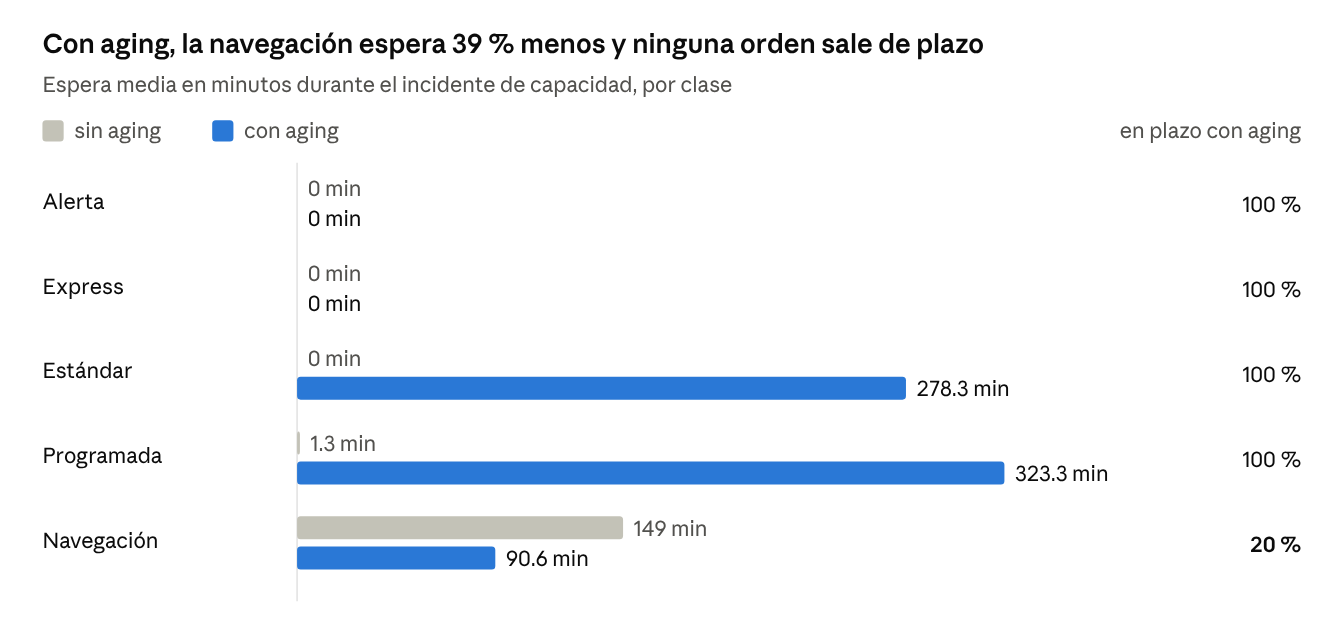
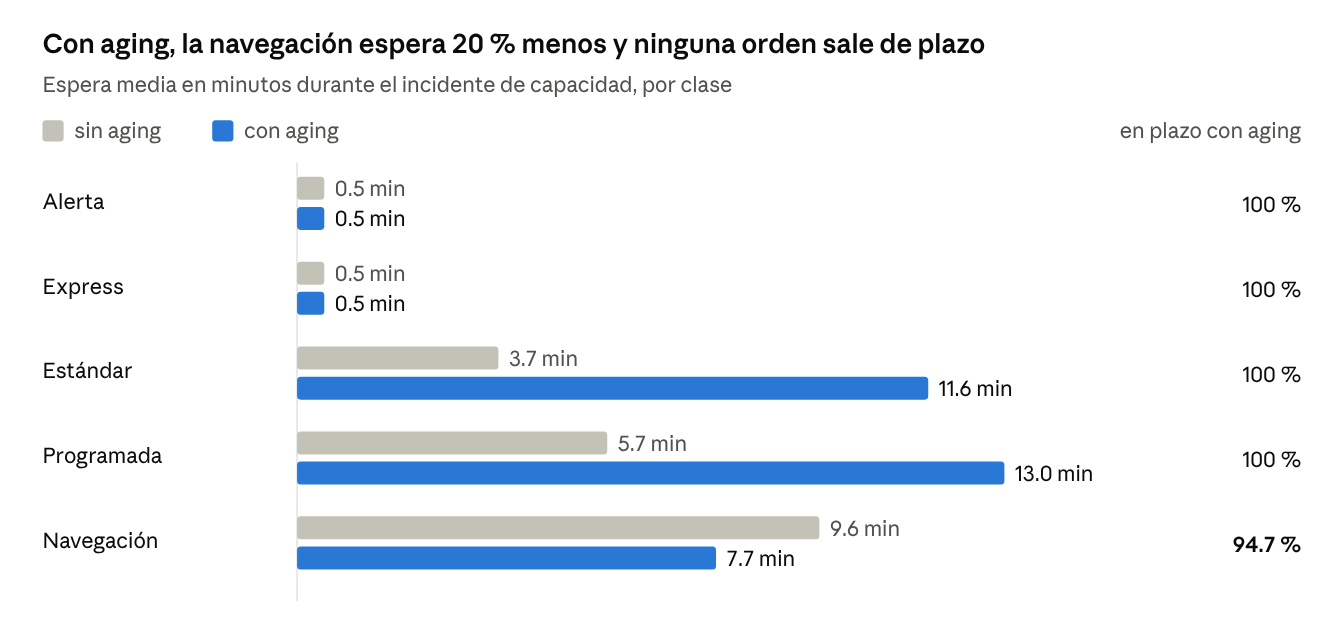
ACTUALIZACION DEL INFORME DE LAS ETAPAS 0, 1 Y 2 A OFFICE_PRODUCTS
- se modifico docs/informe_etapas_0_1_2.md
- se reemplazo la imagen docs/img/informe_arquitectura.png
- se reemplazo la imagen docs/img/informe_espera_aging.png
- se reemplazo la imagen docs/img/informe_stream_vs_lista.png

diff --git a/docs/informe_etapas_0_1_2.md b/docs/informe_etapas_0_1_2.md
@@ -2,62 +2,60 @@
 
 Proyecto EDA 2026-2 · Grupo 1 · Escenario B (comercio electrónico)
 
-18 de octubre de 2026
+19 de octubre de 2026
 
 ## Resumen
 
-Las etapas 0, 1 y 2 convierten un stream crudo de eventos de comercio electrónico en una secuencia limpia y priorizada. Sobre 20 000 reseñas reales de Amazon Reviews 2023 se generaron 134 277 registros, de los que salieron 127 170 eventos limpios en orden de atención.
+Las etapas 0, 1 y 2 convierten un stream crudo de eventos de comercio electrónico en una secuencia limpia y priorizada. En modo desarrollo, 50 000 reseñas reales de la categoría `Office_Products` de Amazon Reviews 2023 generaron 363 511 registros, de los que salieron 343 887 eventos limpios en orden de atención.
 
 | Etapa | Función | Estructura propia | Complejidad | Resultado principal |
 | --- | --- | --- | --- | --- |
 | 0. Ingesta y buffer | Recibir el stream y entregarlo en micro-lotes | Cola FIFO circular de capacidad fija | O(1) por operación | Pendiente log-log de 0.97 y 8 bytes por elemento; ningún evento perdido con backpressure |
-| 1. Preprocesamiento | Validar, normalizar, deduplicar y ordenar | Merge sort y búsqueda binaria | O(b log b) por lote, O(log w) por búsqueda | 1 291 de 1 291 rechazos y 5 816 duplicados detectados; inversiones temporales del 38 % al 0.21 % |
-| 2. Cola con prioridades | Atender primero lo urgente | Min-heap binario con aging | O(log n) por operación, heapify O(n) | Alertas y órdenes express sin espera durante un incidente; espera media de la navegación un 39 % menor con aging |
+| 1. Preprocesamiento | Validar, normalizar, deduplicar y ordenar | Merge sort y búsqueda binaria | O(b log b) por lote, O(log w) por búsqueda | 3 433 de 3 433 rechazos esperados; desorden del 4.68 % al 0.26 %, sin desorden dentro de los lotes |
+| 2. Cola con prioridades | Atender primero lo urgente | Min-heap binario con aging | O(log n) por operación, heapify O(n) | Alertas y compras express dentro de plazo durante un incidente; espera media de la navegación un 20 % menor con aging |
 
-Todas las estructuras evaluadas se implementaron a mano y se compararon con alternativas de la biblioteca estándar en tamaños de 1K a 10M, con semilla 42.
+Todas las estructuras evaluadas se implementaron a mano y se compararon con alternativas de la biblioteca estándar en tamaños de 1K a 10M, con semilla 42. Las etapas 0 y 1 usan 9.4 MB de memoria pico en modo desarrollo, sin contar el catálogo de productos.
 
 ## Contexto y datos
 
-El escenario B pide un stream de búsquedas, vistas, carritos, compras, devoluciones, reseñas y alertas de pago. Ningún dataset público trae ese stream completo, así que se usó Amazon Reviews 2023 (McAuley-Lab, Hugging Face) como base real y se generó sintéticamente el componente de stream, como recomienda el enunciado.
+El escenario B pide un stream de búsquedas, vistas, carritos, compras, devoluciones, reseñas y alertas de pago. Ningún dataset público trae ese stream completo, así que se usó Amazon Reviews 2023 (McAuley-Lab) como base real y se generó sintéticamente el componente de stream, como recomienda el enunciado.
 
 ### Dataset
 
-Para el desarrollo se usó la categoría `All_Beauty`, con 701 528 reseñas (311.5 MB) y 112 590 productos (203.1 MB). La categoría `Video_Games` queda reservada para el experimento final. Los archivos JSONL se descargan con `hf_hub_download`, porque `datasets` 5.x ya no admite el script de carga del repositorio, y se leen línea por línea con un generador de Python.
+Se usa la categoría `Office_Products`. El notebook `00-download-data.ipynb` descarga las reseñas y los metadatos, asigna el tipo de cada columna y ordena las 12 845 712 reseñas por `timestamp` con ordenamiento externo. El resultado son dos archivos Parquet, uno de reseñas (unos 1.5 GB) y otro de 710 503 productos (unos 505 MB).
 
-La lectura como stream es una decisión medida. Se comparó un generador de Python con una lista en memoria al recorrer de 1K a 200K reseñas.
+Las reseñas se leen con `ParquetFile.iter_batches`, en bloques de 10 000 filas y solo con las columnas necesarias, y un generador de Python las entrega una a la vez. El experimento usa una **ventana reciente**, formada por las últimas 2 500 000 reseñas del archivo. Son un bloque continuo de las reseñas más recientes, así que conservan el orden temporal real. Con los metadatos del Parquet se calcula en qué grupo de filas empieza la ventana, y los grupos anteriores no se leen. El modo desarrollo usa las primeras 50 000 reseñas de esa ventana, que caen en un solo grupo de los 65 del archivo.
+
+La lectura como stream es una decisión medida. Se comparó el generador con una lista en memoria al recorrer de 1K a 200K reseñas.
 
 ![Memoria pico y tiempo hasta el primer registro, generador frente a lista](img/informe_stream_vs_lista.png)
 
-*Fuente: `notebooks/etapa0_ingesta_buffer.ipynb`, 1K a 200K reseñas de `All_Beauty`, promedio de 5 repeticiones en los tiempos.*
+*Fuente: `notebooks/etapa0_ingesta_buffer.ipynb`, 1K a 200K reseñas de `Office_Products`, promedio de 5 repeticiones en los tiempos.*
 
-| Medida con 200K reseñas | Lista | Generador |
-| --- | --- | --- |
-| Memoria pico | 70.5 MB | 0.08 MB |
-| Tiempo hasta el primer registro | 912 ms | 0.15 ms |
-| Tiempo total de recorrido | 0.92 s | 0.90 s |
+- **Memoria.** Con la lista, la memoria pico crece en proporción a n, unos 395 bytes por reseña, es decir, O(n). Con el generador se mantiene en 4.3 MB, el tamaño de un bloque, es decir, O(1). Con 200K reseñas la lista usa unas 18 veces más memoria, y la diferencia crece con n.
+- **Latencia.** La lista entrega el primer registro solo después de leer todas las reseñas, así que esa espera crece con n. El generador lo entrega tras leer el primer bloque, en unos 19 ms, sin importar el tamaño.
+- **Tiempo total.** Recorrer las 200K reseñas tomó 0.15 s con el generador y 0.16 s con la lista. El ahorro de memoria no tiene costo en velocidad.
 
-- **Memoria.** Con la lista la memoria crece en proporción a n, unos 350 bytes por reseña, es decir, O(n). Con el generador se mantiene cerca de 0.07 MB en todos los tamaños, es decir, O(1). Con 200K reseñas la lista usa unas 890 veces más memoria.
-- **Latencia.** La lista entrega el primer registro solo después de leer todo el archivo, y esa espera crece de 6 ms a 912 ms. El generador lo entrega en unos 0.15 ms sin importar el tamaño. En un stream que no termina, la lista nunca entregaría el primer registro.
-- **Tiempo total.** Las dos formas tardan lo mismo en recorrer todas las reseñas, porque hacen el mismo trabajo de lectura y conversión de JSON. El ahorro de memoria no tiene costo en velocidad.
+El análisis de los datos encontró tres características que condicionan el diseño.
 
-El análisis del dataset encontró tres problemas que condicionan el diseño.
-
-- El precio falta en el 84.3 % de los productos.
-- Las reseñas no están ordenadas por tiempo. En una muestra de 20 000, el timestamp retrocede en el 60 % de los pares consecutivos y las fechas van de 2002 a 2023.
+- El precio viene como texto mezclado. Es nulo en el 59.7 % de los productos, 3 784 productos tienen un guion (`"—"`) y 606 un texto como `"from 14.99"`.
+- Las reseñas vienen ordenadas por tiempo, así que cada recorrido de compra se puede anclar al timestamp real de su reseña.
 - `bought_together` casi siempre es nulo, por lo que el grafo de co-compra necesita órdenes simuladas.
 
 ### Generador sintético
 
-Cada reseña real se convierte en un recorrido de compra `search → view → cart → purchase → review → return`. Del dataset se conservan el usuario, el producto, la calificación y si la compra fue verificada. El precio, la categoría y el texto de búsqueda se toman del catálogo, con un precio sintético estable cuando falta.
+Cada reseña real se convierte en un recorrido de compra `search → view → cart → purchase → review → return`. Del dataset se conservan el usuario, el producto, la calificación, el timestamp y si la compra fue verificada. El precio crudo, la categoría y el texto de búsqueda se toman del catálogo. El precio pasa sin limpiar a la etapa 1 y solo se reemplaza por uno sintético cuando es nulo.
 
-Como las reseñas no tienen orden temporal, el generador usa un reloj de reproducción. Cada reseña recibe una hora sintética creciente, con intervalos exponenciales de 2 s en promedio, y su recorrido ocurre en los 30 minutos anteriores. Cada evento llega con un retraso de red simulado, y el generador lo entrega en orden de llegada.
+El recorrido ocurre en los 30 minutos previos al timestamp real de la reseña. El generador entrega los eventos en orden de llegada con **desorden controlado**. Un evento normal llega en su propio `ts`, y el 5 % llega con un retraso aleatorio de hasta 120 s, reproducible con la semilla. Sin eventos tardíos, el stream sale ordenado por tiempo. En modo desarrollo llegó tarde el 5.05 % de los eventos.
+
+El retraso máximo de 120 s es menor que la duración de un lote en tiempo del stream (mediana de 1 237 s y mínimo de 473 s) y que la ventana de deduplicación de la etapa 1 (600 s). Así, un evento tardío cae como mucho en el lote siguiente y su reenvío todavía se detecta.
 
 | Ruido inyectado | Probabilidad | Etapa que lo trata |
 | --- | --- | --- |
 | Duplicado exacto | 3 % por evento | 1 |
 | Duplicado casi exacto (otro `event_id`, `ts` ±0.4 s, formato distinto) | 1.5 % por evento | 1 |
 | Registro malformado (seis tipos de error) | 1 % por evento | 1 |
-| Llegada tardía de 30 s a 5 min | 5 % por evento | 1 |
+| Llegada tardía de hasta 120 s | 5 % por evento | 1 |
 | Ráfaga de fraude con cuenta, tarjeta y dispositivo señalados | 0.2 % por reseña | 2 y 6 |
 | Alerta de pago | 30 % de las compras fraudulentas, 0.3 % de las legítimas | 2 y 6 |
 
@@ -67,7 +65,7 @@ El 25 % de las órdenes incluye de 1 a 3 productos adicionales del mismo grupo s
 
 ![Arquitectura de las etapas 0 a 2 y flujo de datos](img/informe_arquitectura.png)
 
-Cada etapa entrega su salida a la siguiente a través de archivos en `data/interim/`. La etapa 0 también exporta las listas de cuentas, tarjetas y dispositivos señalados para el Bloom Filter de la etapa 6.
+Cada etapa entrega su salida a la siguiente a través de archivos en `data/interim/<CATEGORIA>/`. La categoría, las rutas y los parámetros del experimento están en un solo lugar, `src/config.py`. La etapa 0 también exporta las listas de cuentas, tarjetas y dispositivos señalados para el Bloom Filter de la etapa 6.
 
 ## Etapa 0. Ingesta y buffer
 
@@ -83,7 +81,7 @@ La etapa 0 recibe el stream en un buffer FIFO de capacidad fija y lo entrega a l
 
 ### Resultados
 
-Con 10 000 reseñas (64 105 eventos) y capacidad de 2 000, un consumidor lento de 40 ms por lote bloqueó al productor 125 veces, durante 4.34 s en total. Los dos escenarios, rápido y lento, entregaron exactamente los mismos 64 105 eventos. Con un productor de poco tráfico, los lotes se cerraron por tiempo y ningún evento esperó más de 52 ms.
+Con 10 000 reseñas (71 836 eventos) y capacidad de 2 000, un consumidor lento de 40 ms por lote bloqueó al productor 139 veces, durante 4.65 s en total. Los dos escenarios, rápido y lento, entregaron exactamente los mismos 71 836 eventos. Con un productor de poco tráfico, los lotes se cerraron por tiempo y ningún evento esperó más de 52 ms.
 
 | Estructura | Pendiente log-log | Tiempo por operación a 1M | Memoria por elemento |
 | --- | --- | --- | --- |
@@ -100,7 +98,7 @@ La etapa 1 convierte cada micro-lote de registros crudos en eventos que cumplen 
 
 ### Diseño
 
-1. **Validar y normalizar** en un solo recorrido. Cada campo tiene una regla, y los registros inválidos pasan a una `ColaEnlazada` de rechazados con su motivo. Se convierte `ts` de milisegundos a segundos, el precio de texto (`$19.99`, `19,99`) a número, la categoría a forma canónica (`all_beauty`) y la búsqueda a minúsculas.
+1. **Validar y normalizar** en un solo recorrido. Cada campo tiene una regla, y los registros inválidos pasan a una `ColaEnlazada` de rechazados con su motivo. Se convierte `ts` de milisegundos a segundos, la categoría a forma canónica (`office_products`) y la búsqueda a minúsculas. El precio llega como texto crudo del catálogo y se toma su primer número: `$19.99`, `19,99`, `1,299.00` y `from $12.50` se convierten a número, y `—` queda sin precio. Una coma seguida de dos dígitos al final es decimal; cualquier otra coma separa miles. Una compra sin precio o con precio de 0 o menos se rechaza como `precio_invalido`.
 2. **Ordenar el lote por `(clave, ts)`** con merge sort propio y recorrerlo una vez. La clave es `(event_type, user_id, parent_asin, order_id, query)` y no incluye `event_id`. Dos eventos son duplicados si comparten clave y sus `ts` difieren 1 s o menos. Tras ordenar, los duplicados quedan juntos, así que el costo es O(b log b) en lugar de O(b²).
 3. **Buscar duplicados de lotes anteriores** en una ventana, que es un arreglo ordenado con las claves de los últimos 600 s. La búsqueda binaria propia cuesta O(log w) por evento, y la ventana se actualiza una vez por lote con una mezcla lineal, en O(w + b).
 4. **Reordenar el lote por `ts`** con merge sort, que es estable y conserva el orden de los eventos con el mismo `ts`.
@@ -109,13 +107,26 @@ Merge sort se eligió porque garantiza O(n log n) también en el peor caso y es 
 
 ### Verificación contra lo inyectado
 
-| Concepto | Inyectado en la etapa 0 | Detectado en la etapa 1 |
-| --- | --- | --- |
-| Registros rechazados | 1 291 | 1 291 |
-| Duplicados exactos | 3 824 | 3 818 |
-| Duplicados casi exactos | 1 907 | 1 998 |
+Con 50 000 reseñas (363 511 registros), la etapa 1 se comparó con los conteos del generador. La columna Esperado ajusta lo inyectado por los casos que la etapa debe tratar de otra forma.
 
-Los rechazos coinciden por motivo. Los 85 duplicados detectados de más son pares de eventos legítimos con la misma clave a menos de 1 s, el 0.07 % de los eventos. De ellos, 76 son vistas repetidas del mismo producto, equivalentes a un doble clic, y 10 son reseñas reales de variantes del mismo `parent_asin`. Del total, 200 duplicados se detectaron entre lotes gracias a la ventana. Las inversiones de orden temporal bajaron del 38 % al 0.21 %; las que quedan son eventos que llegaron después de cerrarse su lote.
+| Concepto | Inyectado | Esperado | Detectado |
+| --- | --- | --- | --- |
+| Registros rechazados | 3 451 | 3 433 | 3 433 |
+| Duplicados exactos | 10 421 | 10 420 | 10 393 |
+| Duplicados casi exactos | 5 102 | 5 102 | 5 798 |
+
+Los rechazos coinciden por motivo. Lo esperado incluye 56 compras de productos con precio `—` o 0 en el catálogo, que se rechazan con razón, y descuenta las copias de registros que ya iban a ser rechazados. En los duplicados, el exceso neto de 669 coincide, salvo 6, con 675 pares legítimos con la misma clave a 1 s o menos, el 0.2 % de los eventos. De ellos, 460 son reseñas reales de variantes del mismo `parent_asin` con el mismo timestamp, y 215 son vistas repetidas, equivalentes a un doble clic. Los 27 exactos de menos son copias de un evento que ya había quedado unido a otro legítimo, y se cuentan como casi exactas. Del total, 70 duplicados se detectaron entre lotes gracias a la ventana, que llegó a 642 entradas.
+
+### Desorden temporal
+
+Un evento está fuera de orden si su `ts` es menor que el de uno entregado antes. Si ese evento es del mismo lote, el desorden es dentro del lote; si es de un lote anterior, es entre lotes.
+
+| Momento | Fuera de orden | Dentro del lote | Entre lotes |
+| --- | --- | --- | --- |
+| Al entrar a la etapa 1 | 4.68 % | 16 037 | 926 |
+| Al salir de la etapa 1 | 0.26 % | 0 | 878 |
+
+La etapa elimina todo el desorden dentro del lote. Queda el que viene de eventos tardíos que llegaron después de cerrarse su lote.
 
 ### Experimentos
 
@@ -128,7 +139,7 @@ Los rechazos coinciden por motivo. Los 85 duplicados detectados de más son pare
 | Deduplicación | `merge_sort` y recorrido (propio) | 1.09 | n log n |
 | Deduplicación | `set()` (C) | 1.09 | n |
 
-A 100K la búsqueda binaria resolvió cada consulta en 2.4 µs, frente a 1 880 µs de la lineal. `set()` deduplicó unas 17 veces más rápido que ordenar y recorrer, y usó 56 bytes por elemento frente a 81. En la etapa ese costo es pequeño porque cada lote tiene unos 500 eventos, y log₂ 500 ≈ 9. El paso más costoso medido fue validar y normalizar, seguido de la reconstrucción de la ventana, y no los ordenamientos.
+A 100K la búsqueda binaria resolvió cada consulta en 2.4 µs, frente a 1 880 µs de la lineal. `set()` deduplicó unas 17 veces más rápido que ordenar y recorrer, y usó 56 bytes por elemento frente a 81. En la etapa ese costo es pequeño porque cada lote tiene unos 500 eventos, y log₂ 500 ≈ 9. Por lote, validar y normalizar tomó 2.4 ms, ordenar y deduplicar 1.4 ms, la ventana 1.1 ms y reordenar 0.8 ms; los 728 lotes se procesaron en 4.2 s.
 
 ## Etapa 2. Cola con prioridades
 
@@ -144,23 +155,29 @@ La etapa 2 decide en qué orden se atienden los eventos limpios cuando la capaci
 | 4 | Compra programada | 72 h |
 | 5 | Búsqueda, vista, carrito y reseña | 30 min |
 
-La clave del heap es `(clase, deadline, seq)`, donde el deadline es el `ts` del evento más el plazo de su clase y `seq` es el orden de inserción. Dentro de una clase sale primero el que vence antes, y en un empate total sale el que entró antes, así que la cola es estable. La navegación es el 80.4 % de la carga y las clases 1 a 4 suman unos 95 eventos por lote.
+La clave del heap es `(clase, deadline, seq)`, donde el deadline es el `ts` del evento más el plazo de su clase y `seq` es el orden de inserción. Dentro de una clase sale primero el que vence antes, y en un empate total sale el que entró antes, así que la cola es estable. La navegación es el 78 % de la carga, y las clases 1 a 4 suman unos 4 eventos por minuto en promedio.
 
 ### Aging
 
-El aging sube una clase a cada evento por cada 15 minutos de espera, sin pasar de la clase 3. Las claves de un heap no se pueden cambiar en su lugar, así que cada 5 lotes se recalcula la clase efectiva de todas las entradas y se reconstruye el heap con `heapify`, en O(n). Ese costo, repartido entre 5 lotes, es menor que el de insertar y extraer cada lote.
+El aging sube una clase a cada evento por cada 15 minutos de espera, sin pasar de la clase 3. Las claves de un heap no se pueden cambiar en su lugar, así que cada 5 minutos se recalcula la clase efectiva de todas las entradas y se reconstruye el heap con `heapify`, en O(n). Ese costo, repartido entre 5 minutos de servicio, es menor que el de insertar y extraer los eventos de esos minutos.
 
 El límite en la clase 3 protege las clases con plazos cortos. Las clases 3 y 4 tienen 24 h y 72 h de plazo, y el aging solo usa esa holgura.
 
+### Simulación del servicio
+
+La simulación avanza un minuto del stream por ciclo. En cada minuto entran al heap los eventos de ese minuto, cada 5 minutos se aplica el aging y al final del minuto se extraen tantos eventos como permita la capacidad. Con los timestamps reales cada lote de 500 eventos cubre unos 25 minutos del stream, así que un ciclo por lote no puede medir el plazo de 5 minutos de las alertas. Con ciclos de 1 minuto la resolución es menor que todos los plazos.
+
+Llegan 18.4 eventos por minuto en promedio, con un máximo de 82. Con la capacidad normal de 91 eventos por minuto, un 10 % sobre ese máximo, todas las clases esperan un minuto o menos y se atienden al 100 % dentro de plazo.
+
 ### Incidente de capacidad
 
-Se simuló una caída de capacidad de 600 a 100 eventos por ciclo durante 100 ciclos, unas 4.5 horas del stream. Llegan unos 473 eventos por ciclo.
+Se simuló una caída de la capacidad a 5 eventos por minuto durante 4 horas, ubicada en las 4 horas con más llegadas del stream. En esas horas llegan 54 eventos por minuto, y 12.1 por minuto son de las clases 1 a 4, frente a 4.1 en promedio: la capacidad del incidente no alcanza ni para lo urgente.
 
 ![Espera media por clase durante el incidente, con y sin aging](img/informe_espera_aging.png)
 
-*Fuente: `notebooks/etapa2_cola_prioridades.ipynb`, incidente de 100 ciclos, 127 170 eventos.*
+*Fuente: `notebooks/etapa2_cola_prioridades.ipynb`, incidente de 4 h a 5 eventos por minuto, 363 511 registros de `Office_Products`.*
 
-Con aging, la espera media de la navegación baja un 39 % y su espera máxima de 241 a 195 min, sin que ninguna orden salga de plazo. Solo el 20 % de la navegación cumple su plazo con o sin aging, porque durante el incidente falta capacidad. Una política de orden decide quién espera, pero no reduce la espera total.
+Las alertas y las compras express se atienden en menos de 2 minutos con y sin aging, porque son pocas y la prioridad por clase las atiende primero. Con aging, la espera media de la navegación baja un 20 %, de 9.6 a 7.7 minutos, y su p95 de 50.8 a 32.5. El costo lo pagan las compras estándar y programadas, que siguen al 100 % dentro de plazo gracias a sus plazos de 24 h y 72 h. La navegación queda al 94.7 % dentro de plazo en los dos escenarios: el heap llega a unos 12 000 eventos y tarda unas 3.5 horas en vaciarse. Una política de orden decide quién espera, pero no reduce la espera total.
 
 ### Experimentos
 
@@ -176,54 +193,57 @@ A 100K la lista ordenada ya es 4 veces más lenta que `MinHeap`, y la diferencia
 
 ## Integración y verificación
 
-Las tres etapas están implementadas en notebooks reproducibles y en módulos de `src/` que producen exactamente los mismos resultados. Con 20 000 reseñas, ambos generan los mismos 134 277 registros en el mismo orden y las mismas métricas de la etapa 1.
+Las tres etapas están implementadas en módulos de `src/` y en notebooks reproducibles que importan esos módulos. La categoría, las rutas, la semilla y el tamaño del experimento se cambian en un solo lugar, `src/config.py`.
 
 | Artefacto | Contenido |
 | --- | --- |
-| `notebooks/etapa0_ingesta_buffer.ipynb` | Generador, colas, backpressure, micro-lotes y experimentos |
-| `notebooks/etapa1_preprocesamiento.ipynb` | Validación, merge sort, deduplicación, verificación y experimentos |
-| `notebooks/etapa2_cola_prioridades.ipynb` | Min-heap, aging, simulación de incidente y experimentos |
-| `src/` | `events.py`, `generator.py`, `stage0_queue.py`, `stage1_preprocess.py`, `stage2_heap.py` y `trace.py` |
-| `tests/test_heap.py` | 14 tests de la propiedad de heap; todos pasan |
+| `notebooks/00-download-data.ipynb` | Descarga de reseñas y catálogo de `Office_Products` en Parquet |
+| `notebooks/etapa0_ingesta_buffer.ipynb` | Lectura del dataset, generador, colas, backpressure, micro-lotes y experimentos |
+| `notebooks/etapa1_preprocesamiento.ipynb` | Validación, merge sort, deduplicación, verificación, desorden temporal y experimentos |
+| `notebooks/etapa2_cola_prioridades.ipynb` | Min-heap, aging, simulación por minutos, incidente y experimentos |
+| `src/` | `config.py`, `events.py`, `generator.py`, `stage0_queue.py`, `stage1_preprocess.py`, `metricas.py`, `stage2_heap.py` y `trace.py` |
+| `tests/` | 45 tests del heap, la normalización de precios y el generador; todos pasan |
 | `visualizador/pipeline.html` | Animación de 200 eventos por las tres etapas |
-| `results/` | CSV y gráficas de todos los experimentos |
+| `results/` | CSV, JSON y gráficas de todos los experimentos |
 
-Cada etapa entrega su salida a la siguiente en `data/interim/`. La etapa 2 deja los eventos en orden de servicio, con `priority` y `deadline`, para las etapas 3, 6 y 8. Su salida incluye 179 alertas de pago, de las cuales 130 usan una tarjeta señalada y 49 son falsas alarmas que la etapa 6 debe verificar. También incluye 3 847 órdenes con más de un producto para el grafo de co-compra.
+Cada etapa entrega su salida a la siguiente en `data/interim/Office_Products/`. La etapa 2 deja los eventos en orden de servicio, con `priority` y `deadline`, para las etapas 3, 6 y 8. Su salida incluye 518 alertas de pago, de las cuales 371 usan una tarjeta señalada y 147 son falsas alarmas que la etapa 6 debe verificar. También incluye 11 824 órdenes con más de un producto, de 48 639 en total, para el grafo de co-compra.
 
 ### Traza y visualizador
 
-`src/trace.py` hace pasar 200 eventos por las implementaciones reales y registra 1 205 pasos. En cada paso guarda las ranuras de la `ColaCircular`, el arreglo del `MinHeap` y la clave de cada nodo. El visualizador dibuja esas fotos en un solo archivo HTML, con el heap como árbol y una verificación de la propiedad de heap en las 386 fotos, sin ninguna violación. La memoria se mide con `tracemalloc` en una pasada aparte, para no mezclar la memoria de la propia traza con la del pipeline.
+`src/trace.py` hace pasar 200 eventos por las implementaciones reales y registra 1 193 pasos. Salta los primeros 13 000 eventos del stream para empezar en un tramo representativo del stream. En cada paso guarda las ranuras de la `ColaCircular`, el arreglo del `MinHeap` y la clave de cada nodo. El visualizador dibuja esas fotos en un solo archivo HTML, con el heap como árbol y una verificación de la propiedad de heap en las 376 fotos, sin ninguna violación. La memoria se mide con `tracemalloc` en una pasada aparte, para no mezclar la memoria de la propia traza con la del pipeline. El pico de las etapas 0 y 1, sin contar el catálogo, fue de 9.4 MB.
 
 ### Condiciones de los experimentos
 
-Los tamaños fueron 1K, 10K, 100K, 1M y 10M, con 100 repeticiones para 1K y 10K, 20 para 100K, 5 para 1M y de 1 a 3 para 10M. Las estructuras O(n) por operación se midieron solo hasta 100K. Durante cada medición se desactivó el recolector de basura. La plataforma fue Windows 11, Intel64 Family 6 Model 158, 12 núcleos lógicos, 17 GB de RAM y Python 3.11.1, con semilla 42.
+El pipeline se ejecutó en modo desarrollo, con las primeras 50 000 reseñas de la ventana reciente de `Office_Products` y semilla 42. Los tamaños de los experimentos de estructuras fueron 1K, 10K, 100K, 1M y 10M, con 100 repeticiones para 1K y 10K, 20 para 100K, 5 para 1M y de 1 a 3 para 10M. Las estructuras O(n) por operación se midieron solo hasta 100K. Durante cada medición se desactivó el recolector de basura. La plataforma fue Windows 11, Intel64 Family 6 Model 158, 12 núcleos lógicos, 17 GB de RAM y Python 3.11.1.
 
 ## Limitaciones y decisiones corregidas
 
-Tres decisiones de diseño se corrigieron después de medir, y cuatro limitaciones quedan documentadas.
+Cinco decisiones se corrigieron después de medir, y cuatro limitaciones quedan documentadas.
 
 ### Decisiones corregidas
 
 | Decisión inicial | Lo que mostró la medición | Corrección |
 | --- | --- | --- |
 | Aging hasta la clase 2 | La navegación envejecida, con deadline de 30 min, adelantaba a las compras express, con deadline de 2 h; la mitad de ellas salió de plazo en el incidente | Aging limitado a la clase 3 |
-| Plazo de 1 min para alertas | Cada lote cubre unos 168 s del stream, y el 60 % de las alertas aparecía fuera de plazo con espera cero | Plazo de 5 min, acorde con la resolución de la simulación |
+| Plazo de 1 min para alertas | Con la simulación por lotes, el 60 % de las alertas aparecía fuera de plazo con espera cero | Plazo de 5 min |
+| Simulación del servicio lote por lote | Con los timestamps reales cada lote cubre unos 25 min del stream: solo el 30 % de las alertas aparecía en plazo y el aging subía de clase a casi todo en cada pasada | Simulación por minutos del stream, con aging cada 5 minutos |
+| Porcentaje en plazo redondeado antes de multiplicar por 100 | Todos los porcentajes en plazo eran múltiplos de 10 | Se redondea después de multiplicar |
 | Comparar n `push` con `heapify` usando claves aleatorias | En el caso promedio n `push` también es lineal y no se distinguía de `heapify` | Se agregó el peor caso, con claves decrecientes |
 
 ### Limitaciones
 
-- **Tolerancia de deduplicación.** La tolerancia de 1 s fusiona pares legítimos muy cercanos, el 0.07 % de los eventos. Agregar `asin` al registro y a la clave evitaría fusionar reseñas de variantes del mismo producto.
-- **Orden temporal entre lotes.** La etapa 1 ordena dentro de cada lote. Un orden total requeriría retener eventos durante el retraso máximo, a costa de latencia.
-- **Horas sintéticas.** El reloj de reproducción reemplaza los timestamps originales de las reseñas, que no tienen orden temporal. Las ventanas de tiempo de las etapas siguientes trabajan sobre esas horas sintéticas.
-- **Escala.** Los experimentos de estructuras llegan a 10M, pero el pipeline completo se ejecutó con 20 000 reseñas de `All_Beauty`. La corrida con `Video_Games` queda pendiente.
+- **Tolerancia de deduplicación.** La tolerancia de 1 s fusiona pares legítimos muy cercanos, el 0.2 % de los eventos. La mayoría son reseñas de variantes del mismo producto con el mismo timestamp. Agregar `asin` al registro y a la clave evitaría fusionarlas.
+- **Orden temporal entre lotes.** La etapa 1 ordena dentro de cada lote, y al salir queda un 0.26 % de eventos fuera de orden entre lotes. Un orden total requeriría retener eventos durante el retraso máximo, a costa de latencia.
+- **Tiempo del stream acelerado.** La etapa 0 reproduce el stream más rápido que el tiempo real, así que los plazos y la capacidad de la etapa 2 se miden en minutos del stream y no del reloj de la máquina.
+- **Escala.** Los experimentos de estructuras llegan a 10M, pero el pipeline completo se ejecutó en modo desarrollo con 50 000 reseñas. La corrida con la ventana de 2.5M reseñas queda pendiente; la etapa 2 carga todos los eventos en memoria para la simulación.
 
 ## Conclusiones
 
 1. Las tres estructuras propias cumplen su complejidad teórica en las mediciones de 1K a 10M. La cola circular mantiene O(1) por operación, merge sort O(n log n), la búsqueda binaria O(log n) y el heap O(log n) por operación.
 2. Las alternativas de la biblioteca estándar escritas en C son más rápidas por un factor constante de 2 a 20, pero ninguna cambia el orden de complejidad. Las alternativas con peor orden, como `list.pop(0)`, la lista ordenada y la búsqueda lineal, se alejan cada vez más al crecer n.
 3. Las decisiones de diseño responden a requisitos del escenario y no solo a la velocidad. El backpressure evita perder eventos, ordenar y recorrer admite la tolerancia de tiempo de los reintentos, y el límite del aging protege las órdenes urgentes.
-4. La verificación contra el ruido inyectado confirma la etapa 1 con exactitud en los rechazos y con un error del 0.07 % en la deduplicación, explicado por pares legítimos dentro de la tolerancia.
-5. La salida de la etapa 2 es una entrada real para las etapas siguientes. Entrega eventos priorizados con alertas para la etapa 6 y órdenes multiproducto para el grafo de la etapa 8.
+4. La verificación contra el ruido inyectado confirma la etapa 1 con exactitud en los rechazos y con un error del 0.2 % en la deduplicación, explicado por pares legítimos dentro de la tolerancia. El desorden temporal baja del 4.68 % al 0.26 %.
+5. La salida de la etapa 2 es una entrada real para las etapas siguientes. Entrega eventos priorizados con 518 alertas para la etapa 6 y 11 824 órdenes multiproducto para el grafo de la etapa 8.
 
 ## Referencias
 
